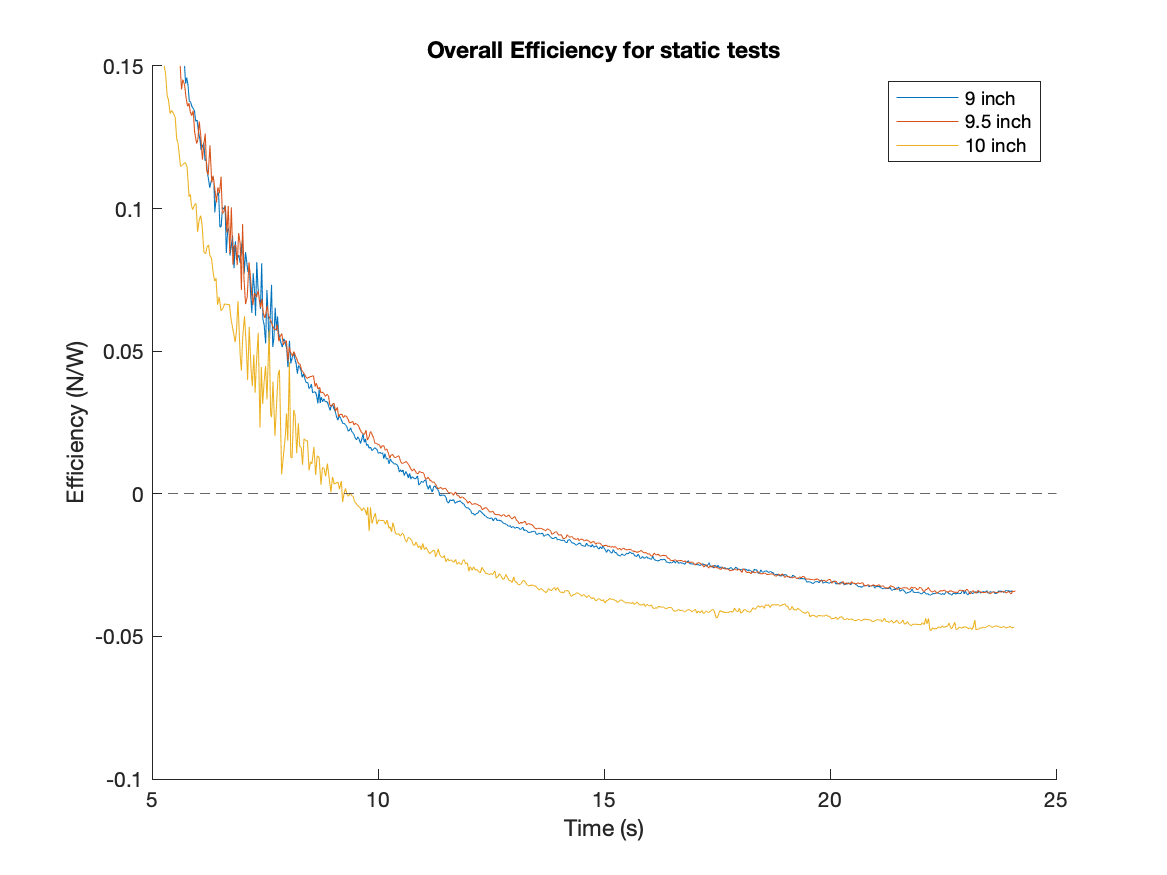
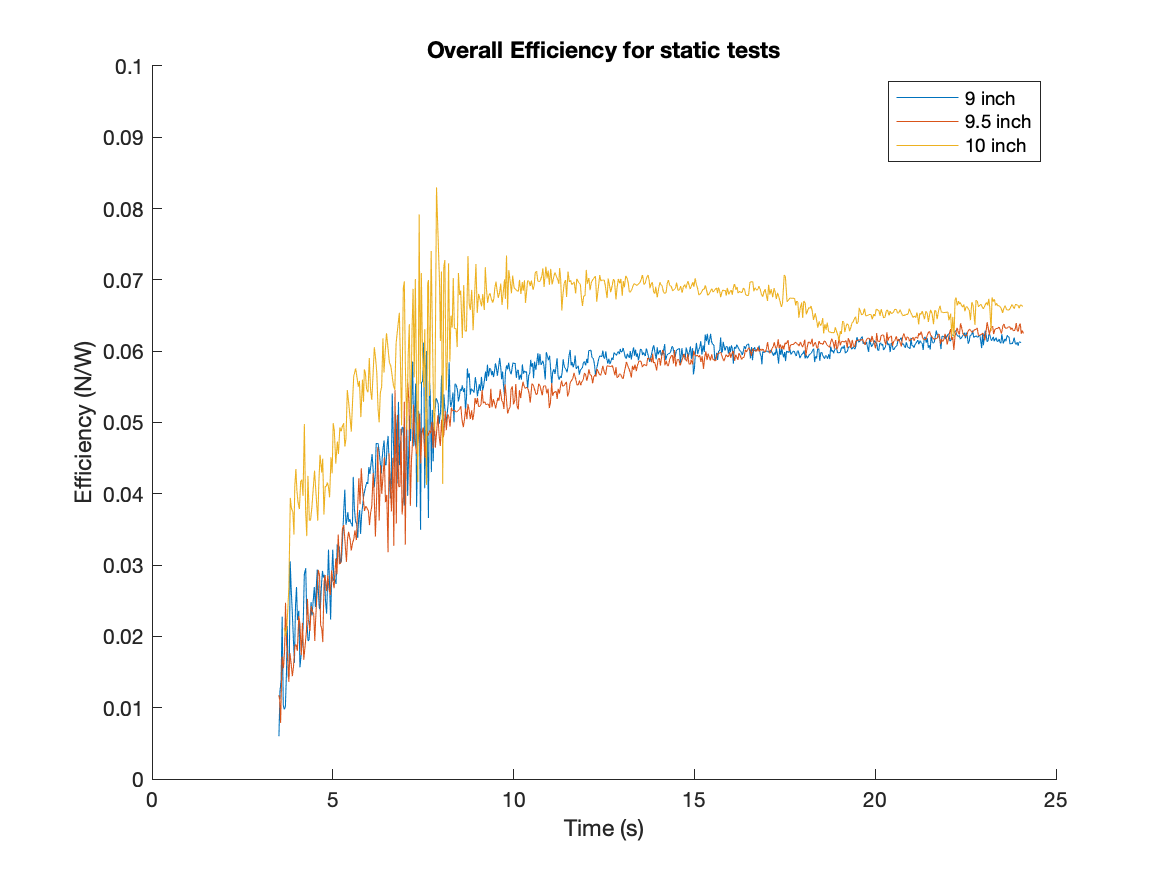
zero thrust for efficiency

diff --git a/analyze_all_static.m b/analyze_all_static.m
@@ -27,7 +27,8 @@ function analyze_all_static()
         
         time_arr = arr_cut(:,1);
         Q = arr_cut(:,9) - arr_in(1,9); % Nm
-        T = arr_cut(:,10) * 9.80665; %kgf to N
+        T = arr_cut(:,10) - arr_cut(1,10); % Zero thrust readings
+        T = T * -9.80665; %kgf to N
         V = arr_cut(:,13) .* (2*pi/60); % RPM to rad/s
         Pe = arr_cut(:,15); % W
         Pm = arr_cut(:,16); % W
@@ -63,7 +64,7 @@ function analyze_all_static()
         hold on
         plot(time_arr, effP_calc,'r');
         title(sprintf("Propeller Efficiency\nN/W"));
-        ylim([-4,4]);
+        ylim([0,10]);
         yline(0,'--');
         
         subplot(2,3,5)
@@ -80,7 +81,7 @@ function analyze_all_static()
     end
     
     figure(combined_eff)
-    ylim([-0.1,0.15]);
+    ylim([0,0.1]);
     yline(0,'--');
     xlabel("Time (s)")
     ylabel("Efficiency (N/W)");
